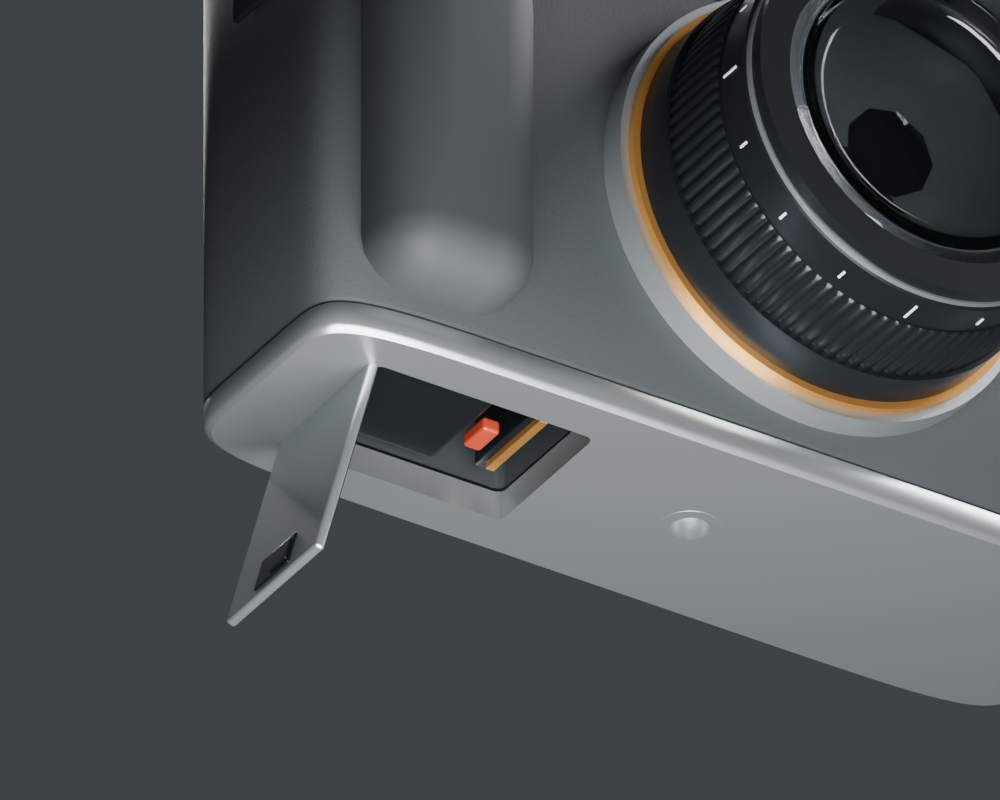
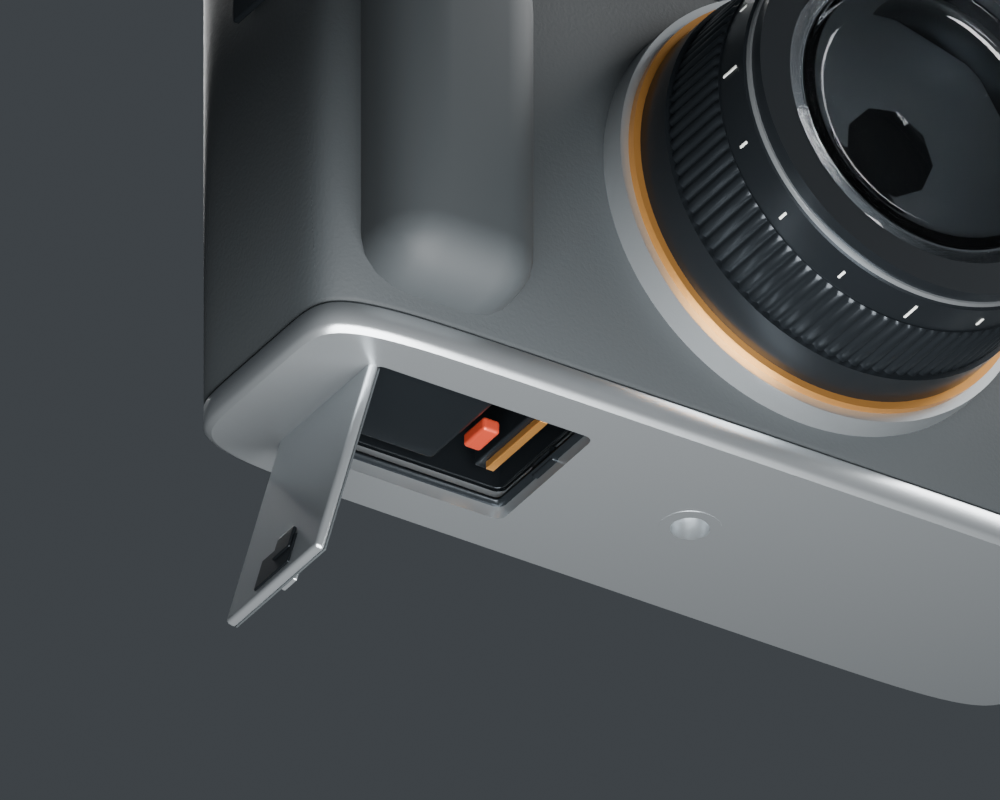
Refine camera panel seating and hatch assembly [skip ci]

Changed region(s): [[0.341, 0.5312, 0.589, 0.6562], [0.279, 0.7188, 0.31, 0.75], [0.279, 0.6562, 0.31, 0.6875]]

diff --git a/examples/compact_camera.py b/examples/compact_camera.py
@@ -173,7 +173,7 @@ def build(output):
             box('Display frame horizontal %s %s'%(x,z),(5,.2,.4),(x,21.6,z),white,.08)
             box('Display frame vertical %s %s'%(x,z),(.4,.2,4),(x+(2.4 if x<0 else -2.4),21.6,z),white,.08)
     label('1/125   F2.8   ISO 200',(22,21.7,20),2,white,rear=True)
-    box('Rear service panel',(24,1.2,49),(43,18.25,43),black,.5)
+    panel=box('Rear service panel',(24,1.2,49),(43,18.1,43),black,.5)
     ring('Navigation seated bezel',(43,18.7,35),.45,8.8,8.35,silver,(0,1,0))
     ring('Rear navigation wheel',(43,18.8,35),1.15,8.1,3.7,black,(0,1,0))
     cylinder('Select button',(43,18.8,35),(43,20.15,35),3.35,silver)
@@ -206,6 +206,22 @@ def build(output):
     # uncut construction objects hidden; the first native model stays untouched.
     pocket=mechanical.cut_box(body,'Body battery pocket',(32,22,18),(-33,0,15),1.2)
     body.hide_render=True;body.hide_set(True);parts.append(pocket)
+    flange=box('Panel seat flange',(24.9,2,49.9),(43,16.6,43),black,.8)
+    supported_body=enclosure.boolean(pocket,flange,'UNION','Body panel support')
+    pocket.hide_render=True;pocket.hide_set(True)
+    flange.hide_render=True;flange.hide_set(True);parts.append(supported_body)
+    seated_body=mechanical.cut_box(supported_body,'Body with panel seat',(24.5,2,49.5),(43,18.2,43),.55)
+    supported_body.hide_render=True;supported_body.hide_set(True);parts.append(seated_body)
+    panel_gasket_stock=box('Panel gasket stock',(24,.3,49),(43,17.35,43),rubber,.1)
+    panel_gasket=mechanical.cut_box(panel_gasket_stock,'Panel perimeter gasket',(21.6,1,46.6),(43,17.35,43),.4)
+    panel_gasket_stock.hide_render=True;panel_gasket_stock.hide_set(True);parts.append(panel_gasket)
+    for i,(x,z) in enumerate(((33,21),(53,21),(33,65),(53,65))):
+        bore=construction.strut('Panel fastener cutter',(x,16.8,z),(x,20,z),.65,48)
+        drilled=enclosure.boolean(panel,bore,'DIFFERENCE','Drilled service panel '+str(i))
+        mechanical.remove(bore)
+        panel.hide_render=True;panel.hide_set(True);parts.append(drilled);panel=drilled
+        ring('Panel mounting boss '+str(i),(x,17.2,z),.3,1.5,.65,black,(0,1,0))
+        cylinder('Panel screw shaft '+str(i),(x,17.2,z),(x,18.75,z),.5,silver)
     bottom=mechanical.cut_box(lower,'Lower cover hatch opening',(32,22,8),(-33,0,4),1.2)
     lower.hide_render=True;lower.hide_set(True);parts.append(bottom)
     old_gasket=bpy.data.objects['Lower recessed gasket']
@@ -215,6 +231,13 @@ def build(output):
     socket_cover=enclosure.boolean(bottom,cutter,'DIFFERENCE','Lower cover with tripod bore')
     mechanical.remove(cutter)
     bottom.hide_render=True;bottom.hide_set(True);parts.append(socket_cover)
+    # Fixed rebate and pocket liner; the door gasket lands on this frame.
+    rim_stock=box('Hatch seat stock',(33.2,23.2,.55),(-33,0,4.525),black,.2)
+    hatch_seat=mechanical.cut_box(rim_stock,'Hatch seat rebate',(29.8,19.8,2),(-33,0,4.525),.7)
+    rim_stock.hide_render=True;rim_stock.hide_set(True);parts.append(hatch_seat)
+    liner_stock=box('Pocket liner stock',(31.8,21.8,17),(-33,0,15),black,1)
+    liner=mechanical.cut_box(liner_stock,'Pocket liner',(30.8,20.8,17),(-33,0,14.5),.8)
+    liner_stock.hide_render=True;liner_stock.hide_set(True);parts.append(liner)
     battery=box('Removable battery',(18,16,17),(-38,0,14),black,1)
     box('Battery release catch',(2.5,5,2),(-26.7,0,6),red,.5)
     box('Card socket',(2.8,16,15),(-21.5,0,14.5),black,.4)
@@ -224,15 +247,35 @@ def build(output):
     scene.collection.objects.link(door_root);door_root.location=(-49,0,3.25)
     hatch_parts=[]
     hatch_parts.append(box('Battery and card hatch',(31.4,21.4,1.4),(-33,0,3.25),silver,.5))
-    hatch_parts.append(box('Hatch inner gasket',(29.8,19.8,.3),(-33,0,4.1),black,.1))
+    door_seal_stock=box('Door seal stock',(31,21,.3),(-33,0,4.1),rubber,.1)
+    door_seal=mechanical.cut_box(door_seal_stock,'Door perimeter seal',(28.8,18.8,1),(-33,0,4.1),.4)
+    door_seal_stock.hide_render=True;door_seal_stock.hide_set(True);parts.append(door_seal)
+    hatch_parts.append(door_seal)
     hatch_parts.append(box('Hatch latch recess',(5,8,.4),(-21,0,2.45),black,.15))
     hatch_parts.append(box('Hatch lock slider',(3.5,4,.55),(-21,-1.5,2.25),black,.2))
     for y in (-6,6):hatch_parts.append(box('Hatch inner rib '+str(y),(24,1,.7),(-33,y,4.55),black,.2))
+    # Alternating fixed and moving knuckles share the parent's true pivot axis.
+    cylinder('Hatch hinge pin',(-49,-9.3,3.25),(-49,9.3,3.25),.45,silver)
+    for i in range(5):
+        knuckle=ring('Hatch hinge knuckle '+str(i),(-49,-9+i*3.6,3.25),3.2,.95,.5,silver,(0,1,0))
+        if i%2:
+            hatch_parts.append(knuckle)
+            hatch_parts.append(box('Hatch hinge leaf '+str(i),(2.2,2.8,.6),(-48.2,-7.4+i*3.6,3.55),silver,.2))
+        else:
+            box('Fixed hinge leaf '+str(i),(2.2,2.8,.6),(-49.8,-7.4+i*3.6,3.55),silver,.2)
+    latch_root=bpy.data.objects.new('Hatch latch slider',None)
+    scene.collection.objects.link(latch_root);latch_root.location=(-21,-1.5,2.25)
+    latch_tongue=box('Latch tongue',(2.6,3,1),(-18.1,0,4.85),silver,.2)
+    receiver_stock=box('Latch receiver stock',(2.3,5,2.2),(-16.7,0,5),black,.3)
+    receiver=mechanical.cut_box(receiver_stock,'Latch receiver slot',(3.5,3.4,1.3),(-17.5,0,4.85),.2)
+    receiver_stock.hide_render=True;receiver_stock.hide_set(True);parts.append(receiver)
     bpy.context.view_layer.update()
+    for obj in (bpy.data.objects['Hatch lock slider'],latch_tongue):
+        world=obj.matrix_world.copy();obj.parent=latch_root;obj.matrix_world=world
+        if obj in hatch_parts:hatch_parts.remove(obj)
+    world=latch_root.matrix_world.copy();latch_root.parent=door_root;latch_root.matrix_world=world
     for obj in hatch_parts:
         world=obj.matrix_world.copy();obj.parent=door_root;obj.matrix_world=world
-    for i in range(5):
-        cylinder('Hatch hinge knuckle '+str(i),(-49,-9+i*3.6,3.7),(-49,-5.8+i*3.6,3.7),1.1,silver)
     # Bottom tripod socket is separate from the hatch.
     ring('Tripod socket',(4,0,2.45),1.3,4,2.5,silver,(0,0,1))
     # Focused static geometry check only, before adding the presentation floor.
@@ -250,23 +293,41 @@ def build(output):
         return BVHTree.FromPolygons([ob.matrix_world@v.co for v in ob.data.vertices],
                                    [list(f.vertices) for f in ob.data.polygons])
     opening_clear=all(tree(ob).ray_cast(Vector((-33,0,0)),Vector((0,0,1)),10)[0] is None
-                      for ob in (pocket,socket_cover,gasket))
+                      for ob in (seated_body,socket_cover,gasket,hatch_seat,liner))
     battery_access=tree(battery).ray_cast(Vector((-38,0,0)),Vector((0,0,1)),10)[0] is not None
     hatch_closed=tree(hatch_parts[0]).ray_cast(Vector((-33,0,0)),Vector((0,0,1)),10)[0] is not None
+    panel_bores=all(tree(panel).ray_cast(Vector((x,16,z)),Vector((0,1,0)),5)[0] is None
+                    for x,z in ((33,21),(53,21),(33,65),(53,65)))
+    latch_fits=not tree(latch_tongue).overlap(tree(receiver))
+    def bounds(ob,axis):
+        values=[(ob.matrix_world@v.co)[axis] for v in ob.data.vertices]
+        return min(values),max(values)
+    seal_contact=abs(bounds(door_seal,2)[1]-bounds(hatch_seat,2)[0])<1e-4
+    panel_contact=abs(bounds(panel_gasket,1)[1]-bounds(panel,1)[0])<1e-4
+    latch_root.location.x-=2
+    bpy.context.view_layer.update()
+    latch_released=bounds(latch_tongue,0)[1]<bounds(receiver,0)[0]
     door_root.rotation_euler[1]=math.radians(105)
     bpy.context.view_layer.update()
     hatch_open=tree(hatch_parts[0]).ray_cast(Vector((-33,0,0)),Vector((0,0,1)),10)[0] is None
     door_root.rotation_euler[1]=0
+    latch_root.location.x+=2
     bpy.context.view_layer.update()
-    if not all((opening_clear,battery_access,hatch_closed,hatch_open)):
-        raise ValueError('Hatch opening or battery access failed')
+    if not all((opening_clear,battery_access,hatch_closed,hatch_open,panel_bores,
+                latch_fits,latch_released,seal_contact,panel_contact)):
+        raise ValueError('Panel seat, latch fit, seal contact or hatch opening failed: '+
+                         str((opening_clear,battery_access,hatch_closed,hatch_open,panel_bores,
+                              latch_fits,latch_released,seal_contact,panel_contact)))
     output.mkdir(parents=True)
     report={'blender':bpy.app.version_string,'mesh_parts':len(parts),'finite_geometry':not errors,
             'scope':'Camera exterior, controls and battery/card hatch; two static hatch poses, not a motion sweep.',
-            'threads':2,'renders':['front','rear-controls','hatch-open'],
+            'threads':2,'renders':['rear-controls','hatch-open'],
             'opening_clear':opening_clear,'battery_access':battery_access,
             'closed_hatch_covers_opening':hatch_closed,'open_hatch_clears_opening':hatch_open,
-            'hatch_angle_degrees':105,'button_radial_clearance_mm':.2}
+            'hatch_angle_degrees':105,'button_radial_clearance_mm':.2,
+            'panel_bores_open':panel_bores,'panel_gasket_contact':panel_contact,
+            'door_seal_seat_contact':seal_contact,'latch_fits_receiver':latch_fits,
+            'latch_releases_before_opening':latch_released}
     (output/'verification.json').write_text(json.dumps(report,indent=2))
     floor=box('Presentation floor',(1000,1000,2),(0,0,.5),material('Backdrop',(.055,.065,.07),0,.75),.5)
     scene.world=bpy.data.worlds.new('Camera studio')
@@ -283,11 +344,11 @@ def build(output):
     scene.render.threads_mode='FIXED';scene.render.threads=2
     scene.view_settings.view_transform='AgX'
     bpy.ops.wm.save_as_mainfile(filepath=str((output/'camera.blend').resolve()))
-    for view,pos,target,scale in [('front',(175,-260,155),(0,-8,42),185),
-                                ('rear-controls',(-125,240,155),(0,4,48),160),
+    for view,pos,target,scale in [('rear-controls',(-125,240,155),(0,4,48),160),
                                 ('hatch-open',(-155,-210,-150),(-24,0,12),125)]:
         if view=='hatch-open':
             floor.hide_render=True
+            latch_root.location.x-=2
             door_root.rotation_euler[1]=math.radians(105)
             light=bpy.data.objects['Key'];light.location=(-60,-100,-130)
             light.rotation_euler=(Vector((-25,0,10))-light.location).to_track_quat('-Z','Y').to_euler()
@@ -297,6 +358,7 @@ def build(output):
         scene.render.filepath=str((output/(view+'.png')).resolve())
         bpy.ops.render.render(write_still=True)
     door_root.rotation_euler[1]=0
+    latch_root.location.x+=2
     print('CAMERA_COMPLETE',json.dumps(report),flush=True)
 
 

diff --git a/docs/STATUS.md b/docs/STATUS.md
@@ -2,6 +2,24 @@
 
 ## Compact camera exterior — 2026-10-23
 
+Assembly revision: the rear service panel now seats in a supported body recess
+with a perimeter gasket, four screw bores, mounting bosses and separate shafts.
+The battery/card pocket has a liner and a rebate contacting the door's perimeter
+seal. Alternating fixed/moving hinge knuckles share the door pivot and pin axis.
+A separate latch tongue fits a receiver slot and retracts 2 mm before opening.
+The native model remains closed with the latch engaged; the hatch, slider and
+individual components remain separately editable.
+
+Focused Blender 5.2.2 LTS checks pass panel bore rays, gasket/panel and seal/seat
+contact bounds, latch surface non-overlap and release clearance, battery access,
+and closed/open hatch coverage. These are static geometry checks, not a continuous
+motion or manufacturing validation. Native result:
+`runs/compact-camera-assembly/camera.blend`. Only rear-controls and open-hatch
+views are rendered with one Blender process and two CPU threads. Earlier native
+models are preserved. Both renders were visually inspected and Blender exited.
+Updated previews: [rear panel](assets/compact-camera-controls.png) and
+[open hatch](assets/compact-camera-hatch.png). Previous revisions follow.
+
 Controls and access revision: seated button bezels and separate caps, menu/play/OK
 labels, dial mode markings, a rear service panel with slotted screws, lower-profile
 viewfinder windows and strap mounting feet/studs replace the first-pass controls.

diff --git a/README.md b/README.md
@@ -14,7 +14,9 @@ Latest: an original fixed-lens compact camera with a satin metal top, textured
 grip, concentric lens barrel, clear front element, nine-leaf aperture, top dials
 and rear controls. Matching cover outlines replace the earlier protruding seams.
 Seated buttons, marked dials and panel screws define the controls. The bottom
-battery/card hatch has an actual opening, hinge and lock-slider geometry.
+battery/card hatch has an actual opening, liner, gasket seat and retracting latch.
+The rear panel seats in a body recess with a perimeter gasket and through-holes
+for separate screws. Fixed and moving hinge knuckles share one pin axis.
 [Generator](examples/compact_camera.py) · [Scope and checks](docs/STATUS.md)
 
 | Refined front | Lens and aperture |
